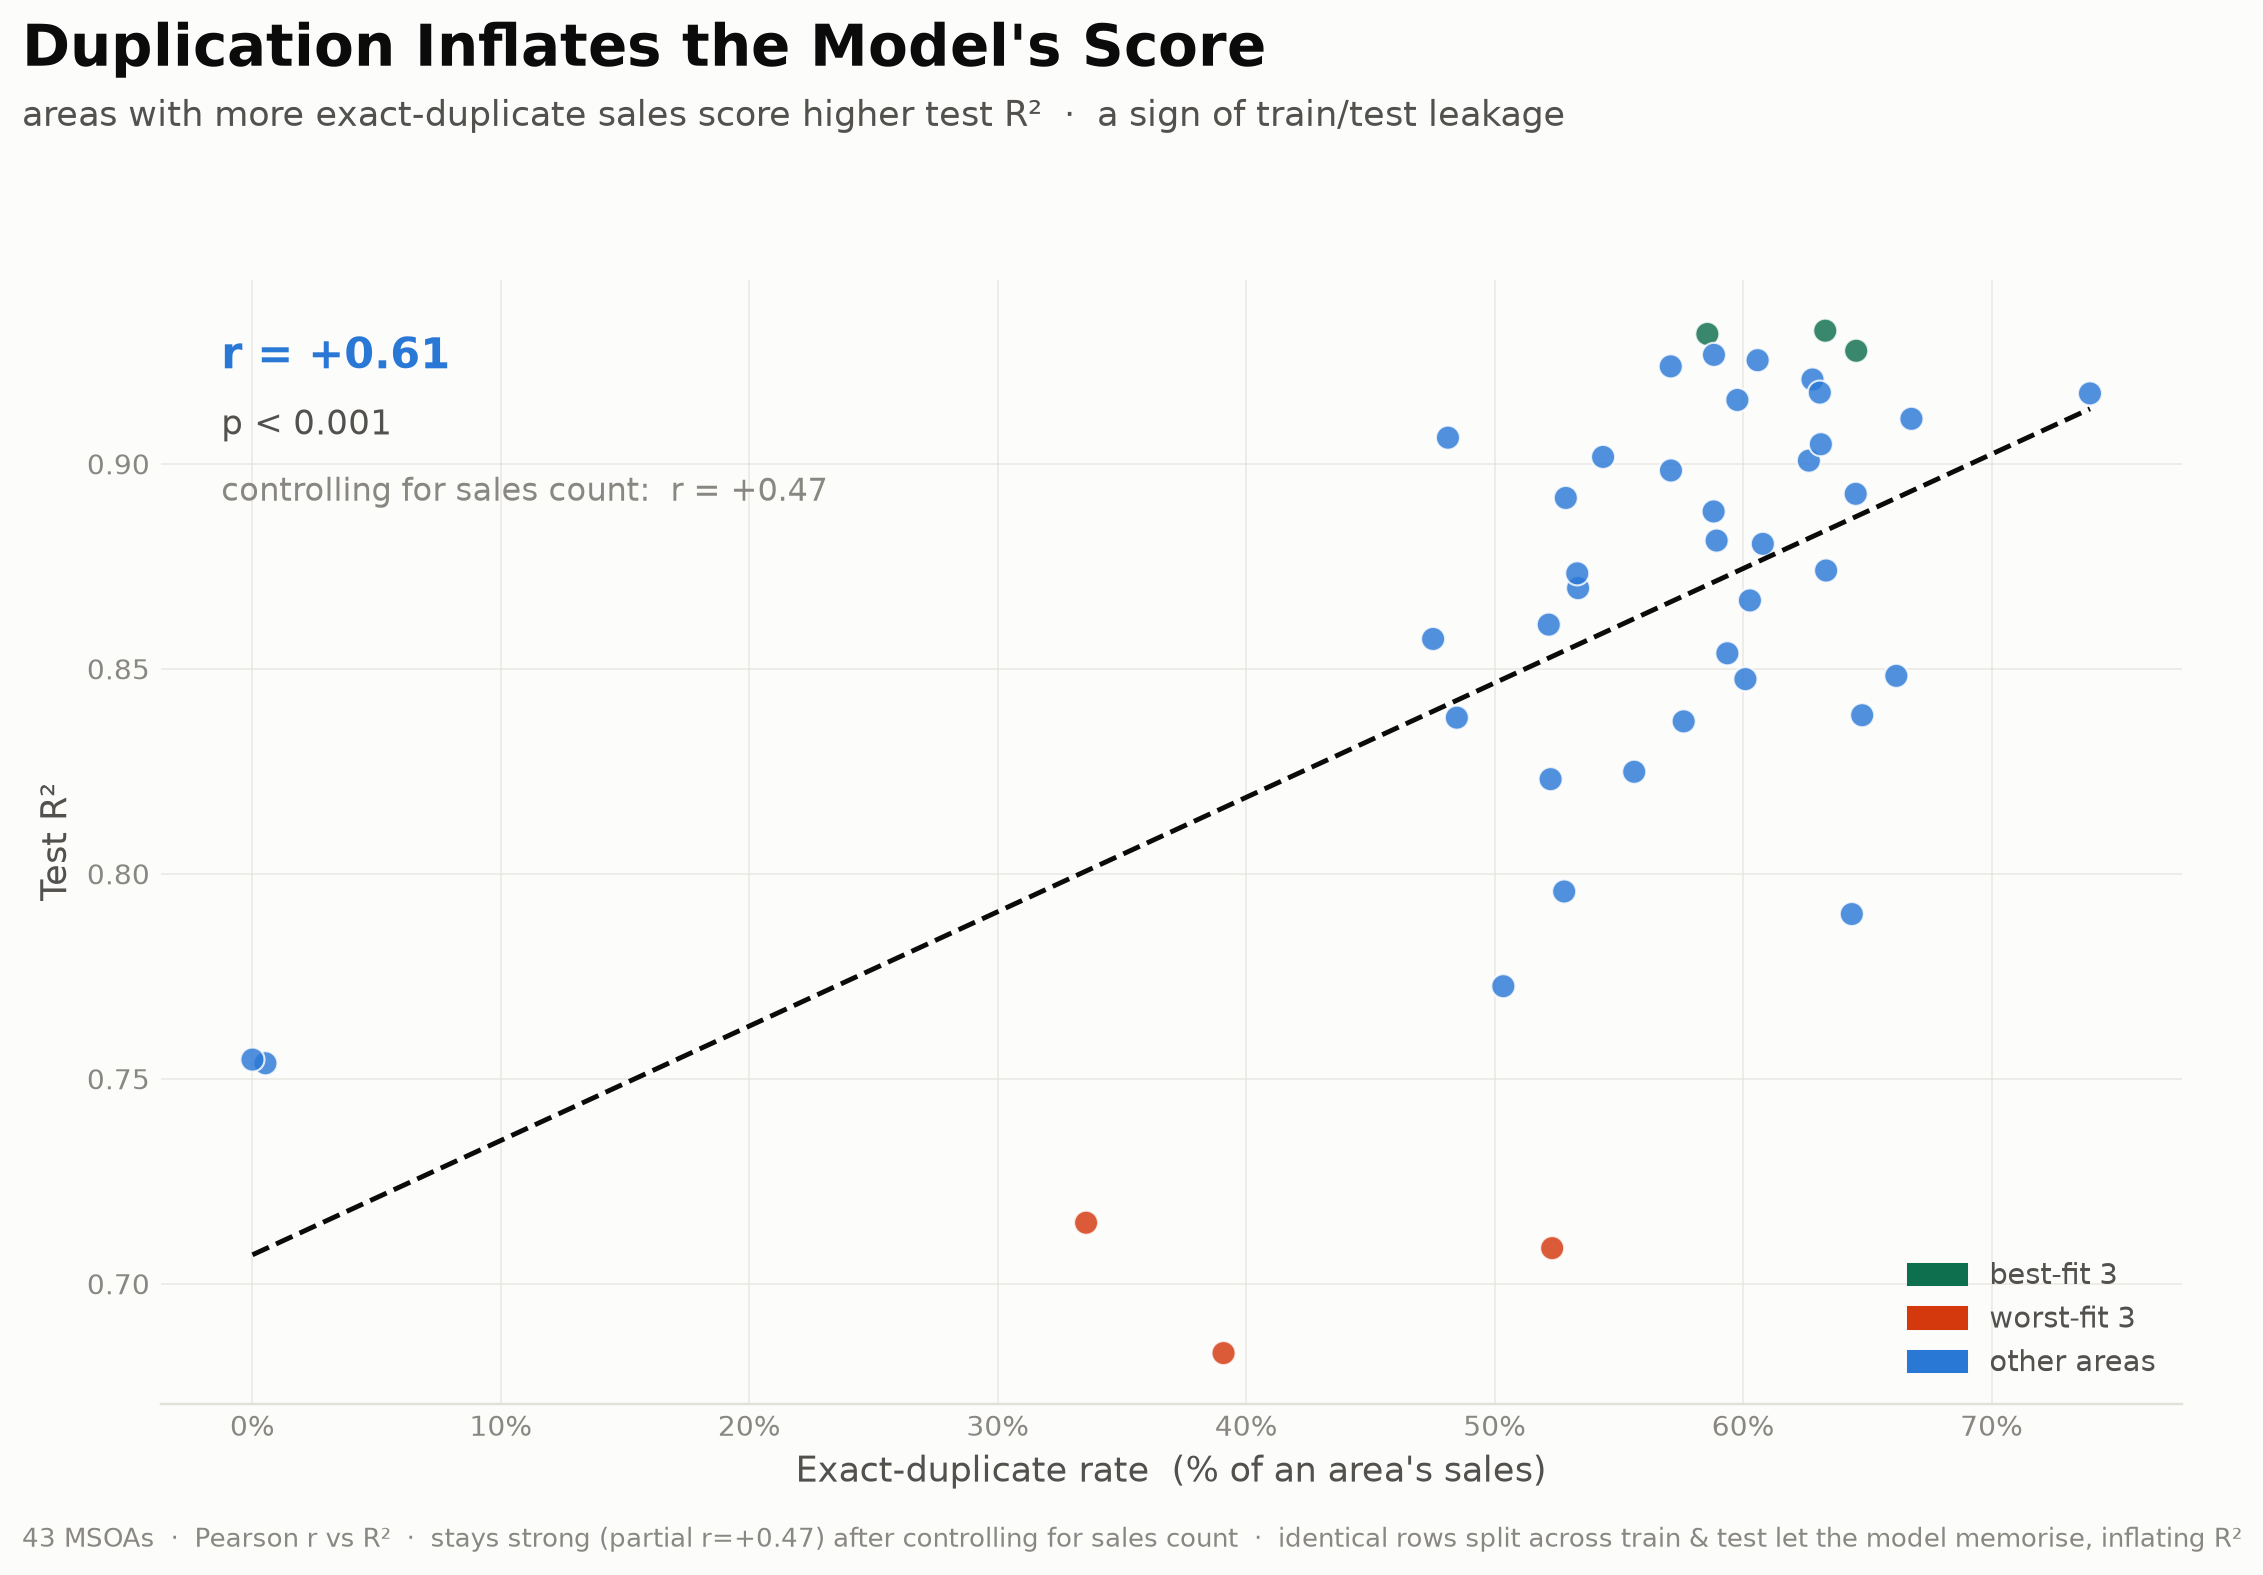
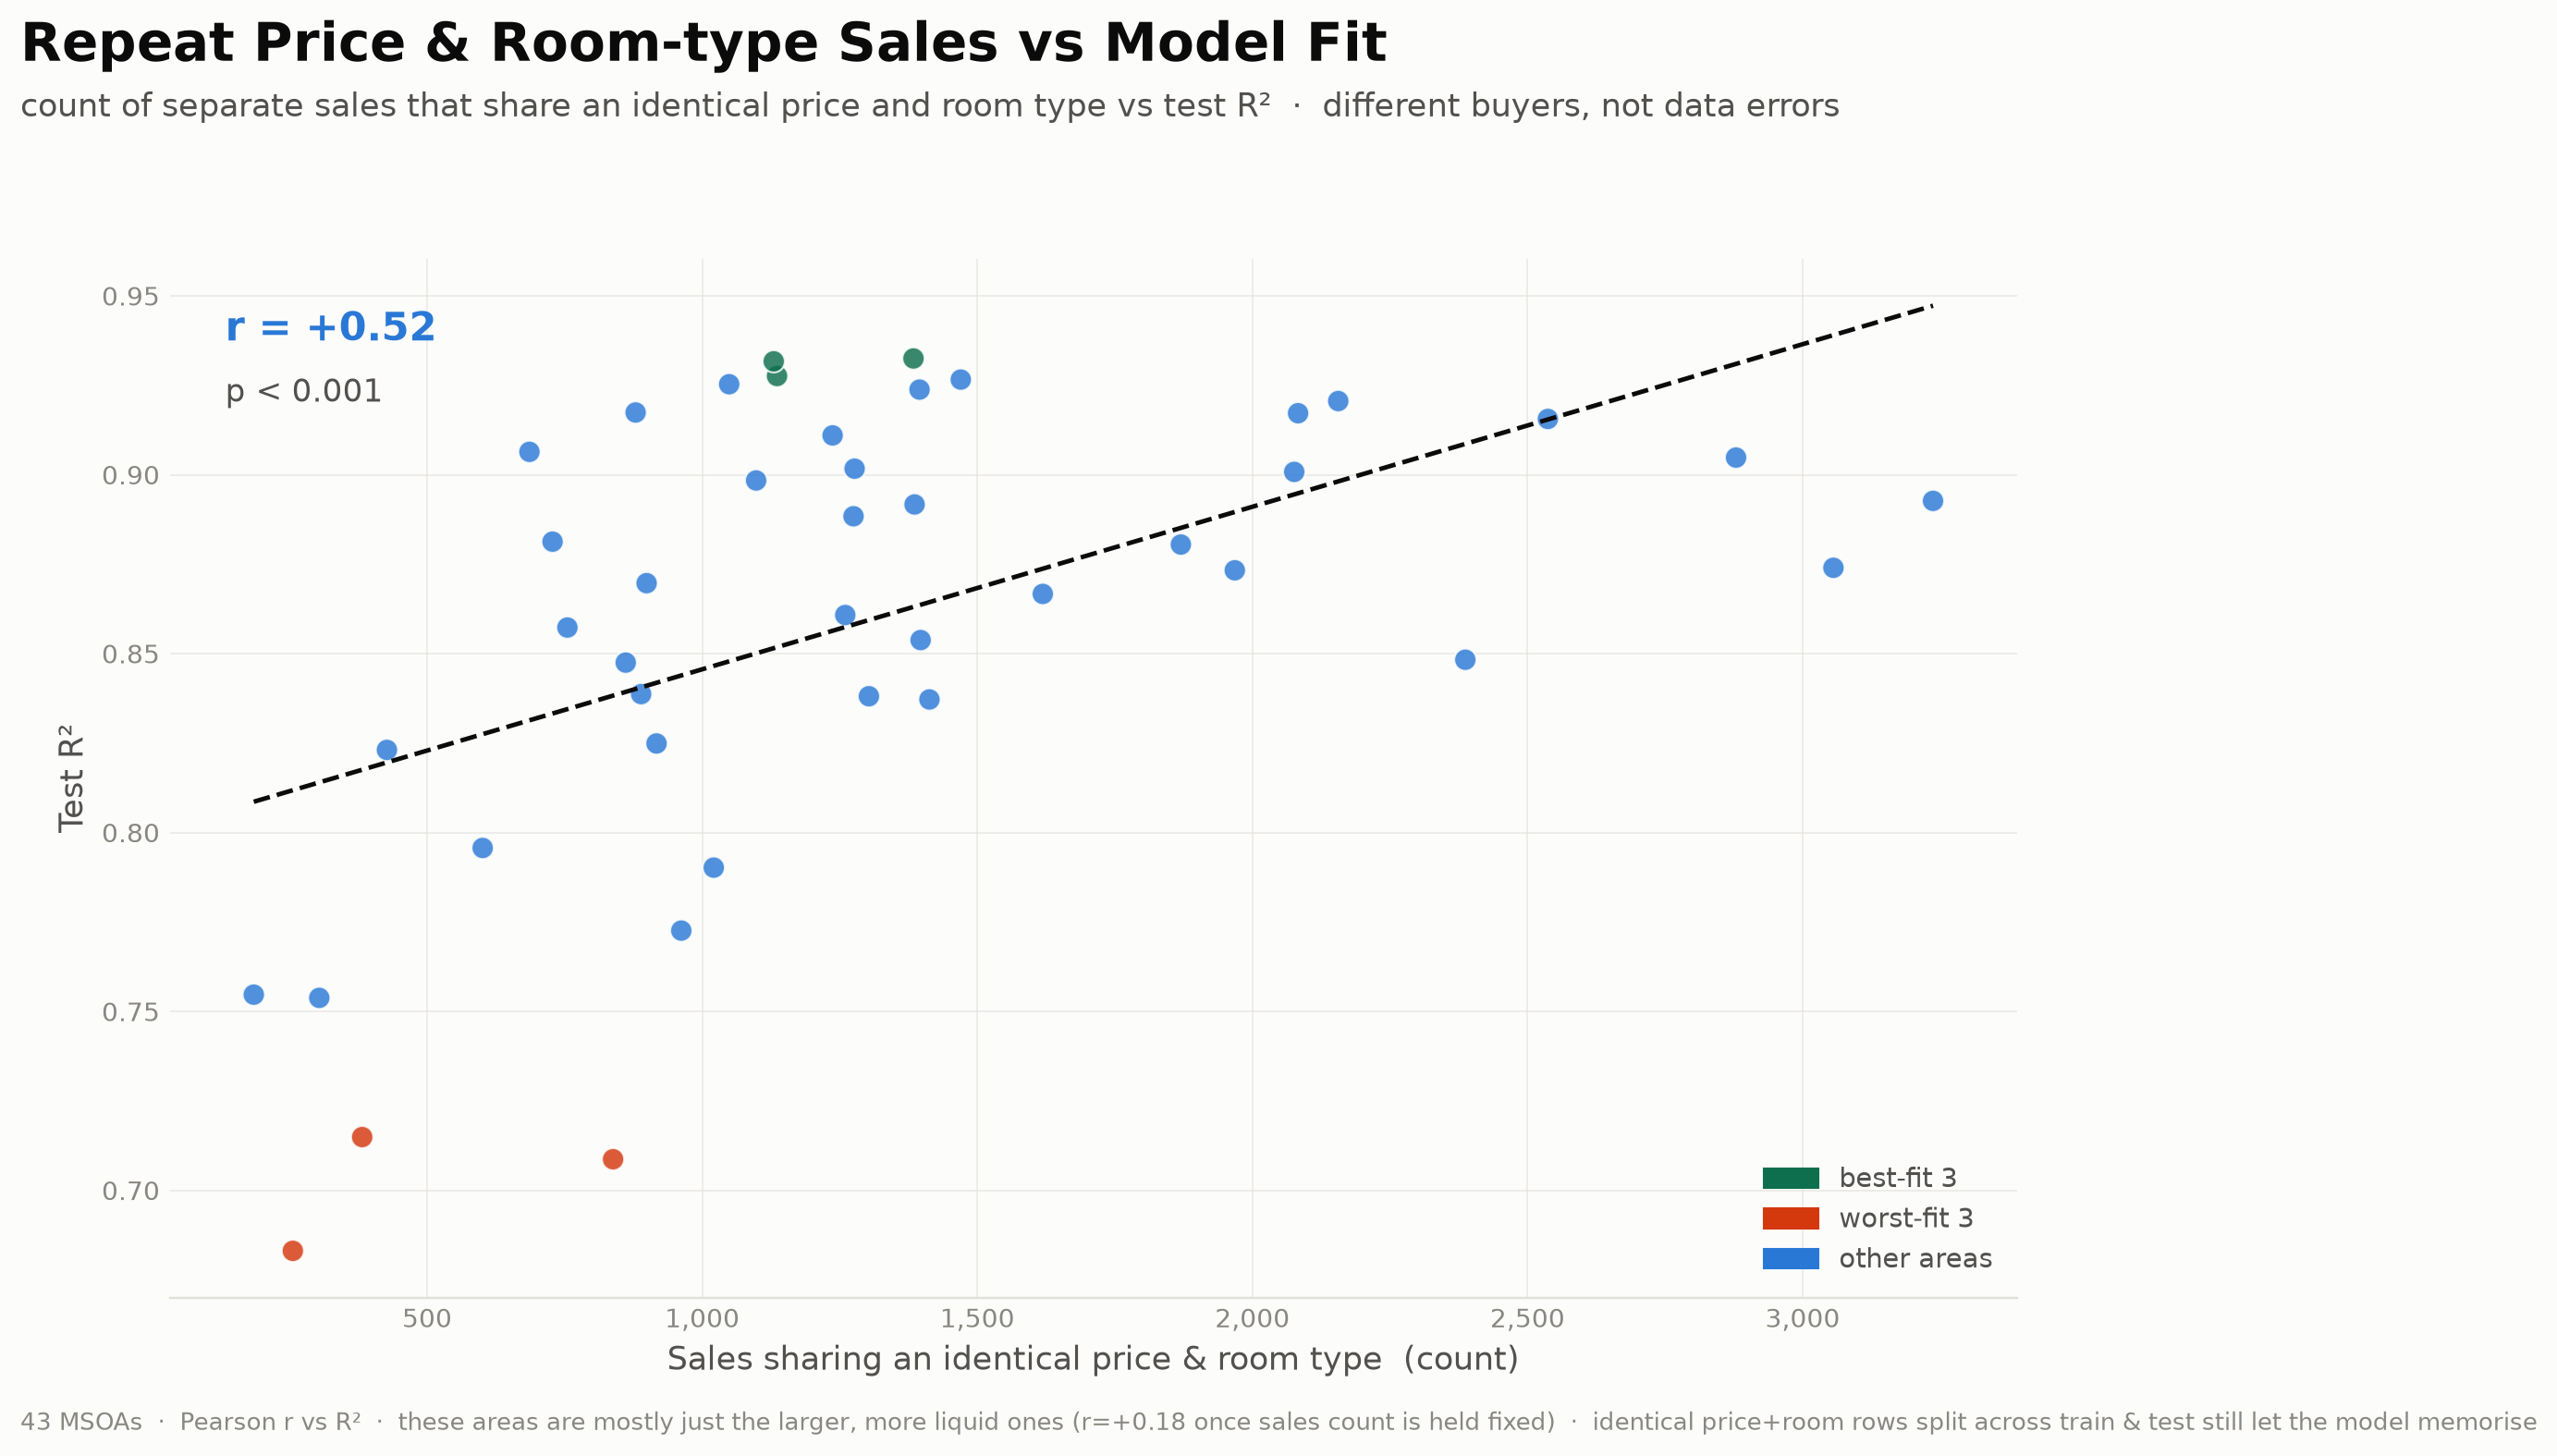
Rework map layout, reframe repeat-sales figure, add ethnicity comparison map
- R2 map: size the figure to the region aspect (no dead space), centre the
  colourbar, send the Eddington label top-left and the Isaac Newton star
  bottom-right so they no longer cross
- Reframe the duplication figure as 'repeat price & room-type sales' (separate
  buyers, not errors); x-axis is now a count, with an honest note that these
  areas are mostly just larger (partial r=+0.18 given sales count)
- New Cambridgeshire vs Birmingham ethnic-diversity map (Gini-Simpson of the
  five Census 2021 groups per MSOA, shared scale) + the TS021 data it uses

diff --git a/code/python/plot_ethnicity_diversity_comparison.py b/code/python/plot_ethnicity_diversity_comparison.py
@@ -1,0 +1,95 @@
+"""Ethnicity diversity: Cambridgeshire vs Birmingham, side by side.
+
+Gini-Simpson diversity of the five high-level Census 2021 ethnic groups
+(Asian, Black, Mixed, White, Other) per MSOA, mapped for the project's 43
+Cambridgeshire MSOAs next to Birmingham's 132 MSOAs on one shared colour scale.
+
+Ethnic-group counts are Census 2021 table TS021 (ONS / Nomis), stored in
+data/spatial/ethnicity_ts021_cam_bham.csv so the figure is reproducible offline.
+"""
+import sys
+from pathlib import Path
+
+import numpy as np
+import pandas as pd
+import geopandas as gpd
+import matplotlib
+
+matplotlib.use("Agg")
+import matplotlib.pyplot as plt
+from matplotlib.colors import Normalize
+from matplotlib.ticker import FuncFormatter
+
+sys.path.insert(0, str(Path(__file__).resolve().parent))
+from plot_cambridgeshire_maps import (  # noqa: E402
+    PROJECT_ROOT, IMAGE_DIR, BOUNDARIES,
+    SURFACE, INK, INK_2, MUTED, VIOLET_RAMP,
+)
+
+ETH_CSV = PROJECT_ROOT / "data" / "spatial" / "ethnicity_ts021_cam_bham.csv"
+CLEANED = PROJECT_ROOT / "data" / "cleaned" / "Cambridge data_cleaned.csv"
+ETH_COLS = ["Asian", "Black", "Mixed", "White", "Other"]
+
+
+def gini_simpson(counts):
+    p = counts.div(counts.sum(axis=1), axis=0)
+    return 1.0 - (p ** 2).sum(axis=1)
+
+
+def main():
+    eth = pd.read_csv(ETH_CSV).set_index("msoa21")
+    eth["diversity"] = gini_simpson(eth[ETH_COLS])
+
+    cam_codes = sorted(pd.read_csv(CLEANED, usecols=["msoa21"])["msoa21"].dropna().unique())
+    gdf = gpd.read_file(BOUNDARIES, columns=["MSOA21CD", "MSOA21NM", "geometry"])
+    gdf = gdf[gdf["MSOA21CD"].isin(eth.index)].to_crs(27700)
+    gdf = gdf.merge(eth["diversity"], left_on="MSOA21CD", right_index=True)
+
+    cam = gdf[gdf["MSOA21CD"].isin(cam_codes)]
+    bham = gdf[gdf["MSOA21NM"].str.startswith("Birmingham", na=False)]
+
+    norm = Normalize(gdf["diversity"].min(), gdf["diversity"].max())
+
+    fig = plt.figure(figsize=(14, 8.6))
+    fig.patch.set_facecolor(SURFACE)
+    ax_c = fig.add_axes([0.02, 0.16, 0.46, 0.70])
+    ax_b = fig.add_axes([0.50, 0.16, 0.46, 0.70])
+
+    for ax, region, name in ((ax_c, cam, "Cambridgeshire"), (ax_b, bham, "Birmingham")):
+        ax.set_facecolor(SURFACE)
+        region.plot(ax=ax, column="diversity", cmap=VIOLET_RAMP, norm=norm,
+                    linewidth=0.4, edgecolor="white")
+        ax.set_axis_off()
+        ax.set_aspect("equal")
+        ax.set_title(name, fontsize=17, fontweight="bold", color=INK, pad=6)
+        ax.text(0.5, -0.02, f"{len(region)} MSOAs   ·   avg diversity {region['diversity'].mean():.2f}",
+                transform=ax.transAxes, ha="center", va="top", fontsize=11.5, color=INK_2)
+
+    # shared horizontal colorbar
+    cax = fig.add_axes([0.30, 0.085, 0.40, 0.02])
+    cb = fig.colorbar(plt.cm.ScalarMappable(cmap=VIOLET_RAMP, norm=norm), cax=cax,
+                      orientation="horizontal")
+    cb.set_label("Ethnic diversity  —  Gini-Simpson index  (chance two random residents differ)",
+                 color=INK_2, fontsize=10.5)
+    cb.outline.set_visible(False)
+    cb.ax.xaxis.set_major_formatter(FuncFormatter(lambda v, _: f"{v:.2f}"))
+    cb.ax.tick_params(colors=MUTED, labelsize=9, length=0)
+
+    fig.text(0.02, 0.955, "Ethnic Diversity: Cambridgeshire vs Birmingham", fontsize=21,
+             fontweight="bold", color=INK)
+    fig.text(0.02, 0.915,
+             "Gini-Simpson diversity of the five Census 2021 ethnic groups per MSOA, one shared scale  ·  "
+             "darker = more mixed  ·  Birmingham is far more diverse", fontsize=12.5, color=INK_2)
+    fig.text(0.02, 0.03,
+             "Source: ONS Census 2021, table TS021 (Ethnic group), via Nomis  ·  Boundaries: ONS MSOA 2021  ·  EPSG:27700",
+             fontsize=9, color=MUTED)
+
+    out = IMAGE_DIR / "ethnicity_diversity_cambridge_vs_birmingham.png"
+    fig.savefig(out, dpi=220, bbox_inches="tight")
+    plt.close(fig)
+    print(f"Wrote {out}")
+    print(f"Cambridgeshire avg {cam['diversity'].mean():.3f}  ·  Birmingham avg {bham['diversity'].mean():.3f}")
+
+
+if __name__ == "__main__":
+    main()

diff --git a/code/python/plot_rf_r2_and_diversity.py b/code/python/plot_rf_r2_and_diversity.py
@@ -215,55 +215,64 @@ def fig_r2_map(gdf, table, names):
     best3 = order.head(3)
     worst3 = order.tail(3).iloc[::-1]  # worst first
 
-    fig = plt.figure(figsize=(12.5, 15.4))
+    # size the figure to the region's own aspect ratio so there is no dead space
+    minx, miny, maxx, maxy = g.total_bounds
+    data_ar = (maxy - miny) / (maxx - minx)
+    fig_w, map_x0, map_wf = 12.5, 0.14, 0.85
+    top_in, bot_in = 1.6, 0.55
+    map_h_in = map_wf * fig_w * data_ar
+    fig_h = map_h_in + top_in + bot_in
+    map_y0, map_hf = bot_in / fig_h, map_h_in / fig_h
+
+    fig = plt.figure(figsize=(fig_w, fig_h))
     fig.patch.set_facecolor(SURFACE)
-    ax = fig.add_axes([0.13, 0.325, 0.85, 0.60])
+    ax = fig.add_axes([map_x0, map_y0, map_wf, map_hf])
     norm = Normalize(g["r2"].min(), g["r2"].max())
     g.plot(ax=ax, column="r2", cmap=BLUE_RAMP, norm=norm, linewidth=0.6, edgecolor="white")
     ax.set_axis_off()
+    ax.set_xlim(minx, maxx)
+    ax.set_ylim(miny, maxy)
     ax.set_aspect("equal")
 
     best3.plot(ax=ax, facecolor="none", edgecolor=GOOD, linewidth=2.8, zorder=5)
     worst3.plot(ax=ax, facecolor="none", edgecolor=BAD, linewidth=2.8, zorder=5)
 
-    # label the 6 highlighted areas, pushed radially outward to avoid the centre
+    # label the 6 highlighted areas, pushed radially outward to avoid the centre;
+    # Eddington is nudged to the top-left so it clears the Isaac Newton star
     halo = [path_effects.withStroke(linewidth=3, foreground=SURFACE)]
-    minx, miny, maxx, maxy = g.total_bounds
     mx, my = (minx + maxx) / 2, (miny + maxy) / 2
     for rank_set, color in ((best3, GOOD), (worst3, BAD)):
         for rank, (_, row) in enumerate(rank_set.iterrows(), start=1):
-            vx, vy = row["cx"] - mx, row["cy"] - my
-            dist = np.hypot(vx, vy) or 1.0
-            ux, uy = vx / dist, vy / dist
-            off = 82
+            if "Eddington" in row["name"]:
+                off_pt, ha, va = (-118, 82), "right", "center"
+            else:
+                vx, vy = row["cx"] - mx, row["cy"] - my
+                dist = np.hypot(vx, vy) or 1.0
+                ux, uy = vx / dist, vy / dist
+                off_pt = (ux * 82, uy * 82)
+                ha, va = ("left" if ux >= 0 else "right"), ("bottom" if uy >= 0 else "top")
             ax.plot(row["cx"], row["cy"], "o", ms=6, mfc=color, mec="white", mew=1.1, zorder=9)
             ax.annotate(
-                f"{rank}. {row['name']}",
-                (row["cx"], row["cy"]),
-                xytext=(ux * off, uy * off),
-                textcoords="offset points",
-                ha="left" if ux >= 0 else "right",
-                va="bottom" if uy >= 0 else "top",
-                fontsize=11,
-                fontweight="bold",
-                color=color,
-                zorder=10,
+                f"{rank}. {row['name']}", (row["cx"], row["cy"]),
+                xytext=off_pt, textcoords="offset points", ha=ha, va=va,
+                fontsize=11, fontweight="bold", color=color, zorder=10,
                 path_effects=halo,
                 arrowprops=dict(arrowstyle="-", color=color, lw=1.1, shrinkA=0, shrinkB=6),
             )
 
-    # Isaac Newton Institute — the headline landmark, "where we are now"
+    # Isaac Newton Institute — the headline landmark, "where we are"; points down-right
     newton = _project([("Isaac Newton Institute", 52.2109, 0.0985)]).geometry.iloc[0]
     ax.plot(newton.x, newton.y, marker="*", ms=28, mfc=STAR, mec="white", mew=1.7, zorder=11)
     ax.annotate(
         "Isaac Newton Institute\n(where we are)", (newton.x, newton.y),
-        xytext=(14, 58), textcoords="offset points", ha="left", va="center",
+        xytext=(74, -66), textcoords="offset points", ha="left", va="center",
         fontsize=11.5, fontweight="bold", color=STAR, zorder=12, path_effects=halo,
         arrowprops=dict(arrowstyle="-", color=STAR, lw=1.3, shrinkA=0, shrinkB=9),
     )
 
-    # vertical colorbar on the left
-    cax = fig.add_axes([0.055, 0.33, 0.026, 0.40])
+    # vertical colorbar on the left, centred against the map
+    cax_hf = 0.46 * map_hf
+    cax = fig.add_axes([0.055, map_y0 + (map_hf - cax_hf) / 2, 0.026, cax_hf])
     cb = fig.colorbar(plt.cm.ScalarMappable(cmap=BLUE_RAMP, norm=norm), cax=cax, orientation="vertical")
     cb.set_label("Test R²  (price scale)", color=INK, fontsize=12.5, fontweight="bold")
     cb.outline.set_visible(False)
@@ -710,13 +719,17 @@ def fig_ptype_diversity_vs_r2(table, names):
     return out
 
 
-# --- figure: per-region duplication rate vs model fit ---------------------------
+# --- figure: repeat price & room-type sales vs model fit ------------------------
+SHARED_KEYS = ["price_sold", "property_type", "num_bed_", "num_bath", "num_reception"]
+
+
 def fig_duplication_vs_r2(df, table, names):
-    dup = df.duplicated(keep="first")
-    rate = df.assign(_d=dup.values).groupby("msoa21")["_d"].mean() * 100.0
-    d = pd.DataFrame({"dup_rate": rate}).join(table[["r2_price", "n_test"]]).dropna()
+    # separate sales that share an identical price + room-type profile with another
+    shared = df.groupby(SHARED_KEYS)["price_sold"].transform("size") >= 2
+    cnt = df.assign(_s=shared.values).groupby("msoa21")["_s"].sum()
+    d = pd.DataFrame({"shared": cnt}).join(table[["r2_price", "n_test"]]).dropna()
     d["name"] = names.reindex(d.index).fillna(pd.Series(d.index, index=d.index))
-    x = d["dup_rate"].to_numpy(float)
+    x = d["shared"].to_numpy(float)
     y = d["r2_price"].to_numpy(float)
     r, p = pearsonr(x, y)
     pr = _partial_r(x, y, d["n_test"].to_numpy(float))
@@ -728,7 +741,7 @@ def fig_duplication_vs_r2(df, table, names):
     fig, ax = plt.subplots(figsize=(10.5, 7.2))
     fig.patch.set_facecolor(SURFACE)
     ax.set_facecolor(SURFACE)
-    fig.subplots_adjust(left=0.09, right=0.965, top=0.82, bottom=0.11)
+    fig.subplots_adjust(left=0.10, right=0.965, top=0.82, bottom=0.11)
 
     colors = [BAD if i in worst3 else GOOD if i in best3 else POS for i in d.index]
     ax.scatter(x, y, s=62, c=colors, alpha=0.82, edgecolor="white", linewidth=0.7, zorder=3)
@@ -740,12 +753,10 @@ def fig_duplication_vs_r2(df, table, names):
             fontweight="bold", color=POS if r >= 0 else NEG, va="top")
     ax.text(0.03, 0.885, _fmt_p(p) + ("" if p < 0.05 else "  (n.s.)"),
             transform=ax.transAxes, fontsize=11, color=INK_2, va="top")
-    ax.text(0.03, 0.825, f"controlling for sales count:  r = {pr:+.2f}",
-            transform=ax.transAxes, fontsize=10.5, color=MUTED, va="top")
 
-    ax.set_xlabel("Exact-duplicate rate  (% of an area's sales)", fontsize=11.5, color=INK_2)
+    ax.set_xlabel("Sales sharing an identical price & room type  (count)", fontsize=11.5, color=INK_2)
     ax.set_ylabel("Test R²", fontsize=11.5, color=INK_2)
-    ax.xaxis.set_major_formatter(FuncFormatter(lambda v, _: f"{v:.0f}%"))
+    ax.xaxis.set_major_formatter(FuncFormatter(lambda v, _: f"{v:,.0f}"))
     _bare(ax)
     ax.grid(True, color=GRID, lw=0.6, alpha=0.6, zorder=0)
     ax.legend(
@@ -756,13 +767,15 @@ def fig_duplication_vs_r2(df, table, names):
 
     title_block(
         fig,
-        "Duplication Inflates the Model's Score",
-        "areas with more exact-duplicate sales score higher test R²  ·  a sign of train/test leakage",
+        "Repeat Price & Room-type Sales vs Model Fit",
+        "count of separate sales that share an identical price and room type vs test R²  ·  "
+        "different buyers, not data errors",
     )
     footer(
         fig,
-        "43 MSOAs  ·  Pearson r vs R²  ·  stays strong (partial r=+0.47) after controlling for sales count  ·  "
-        "identical rows split across train & test let the model memorise, inflating R²",
+        "43 MSOAs  ·  Pearson r vs R²  ·  these areas are mostly just the larger, more liquid ones "
+        f"(r={pr:+.2f} once sales count is held fixed)  ·  identical price+room rows split across train & "
+        "test still let the model memorise",
     )
     out = IMAGE_DIR / "msoa_duplication_vs_r2.png"
     fig.savefig(out, dpi=220, bbox_inches="tight")